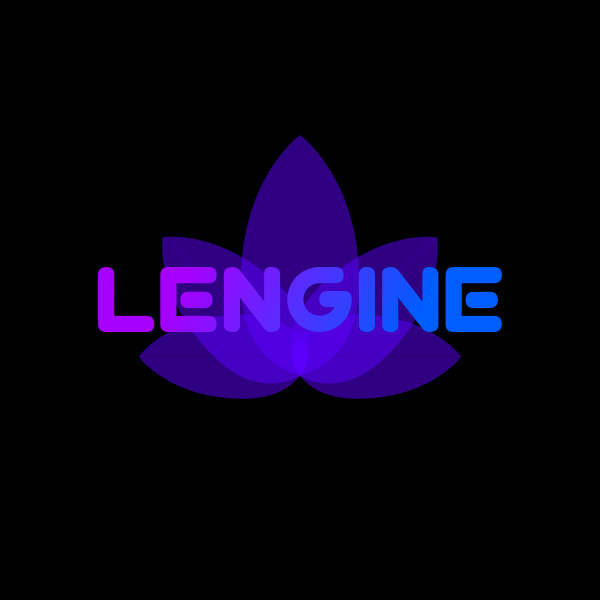
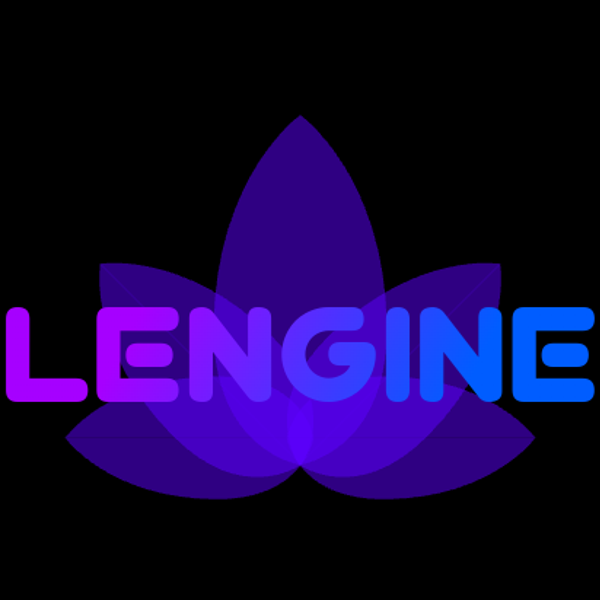
Add files via upload

Changed region(s): [[0.0, 0.18, 1.0, 0.84]]

diff --git a/Lotos Game/index.html b/Lotos Game/index.html
@@ -15,13 +15,14 @@
     <h1 id="preloaderText">загрузка..</h1>
 
     <div id="Background">
-        <div id="Main_Background"></div>
+        <div id="Main_Background" class="Lotos_Game"></div>
         <h1 id="Main_Text">
-           
         </h1>
-
         <div id="Body">
-            <h1 >
+            <h1 id="Under_Main_Text">
+                Lotos Game
+            </h1>
+            <h1>
                 Привет путник!
             </h1>
             <h2>
@@ -29,19 +30,33 @@
                 Наш проект был создан 4 сентября 2023 года. Мы занимаемся разработкой видеоигр 
                 на самом лёгком программировании: Python. На этом сайте вы можете посмотреть все
                 наши проекты, и поддержать нас донатом.<br><br>
-                
             </h2>
         </div>
     </div>
 
     <div id="Body"><br>
         <h1>Разработчики:</h1>
-        <center>
-            <h2>
-                пока ничего
+            <h2 style="text-align: left;">
+                <center><h1 style="color: blueviolet;">Слава (Slava_Tys)</h1></center>
+                Я - создатель LotosGame. В данной студии я работаю программистом, дизайнером и 3D модельером. Начал свою карьеру программиста с
+                 обычного 2D платформера и первого бота в Discord. Буду очень рад если вам понравятся мои проекты!
+                <br><br>
+                <center><h1 style="color: blueviolet;">Неизвестно (Deleted)</h1></center>
+                Здорова, я Deleted. Родом из РФ. Я работаю в Lotos Game. Моя работа заключается в
+                проработке лорной составляющей проектов и в придумывании различных режимов.
+                Ты мог видеть результат моей работы в игре Project "Infinity". Конкретно в этом проекте
+                я занимался описанием пушек, описанием карт, расстановкой сил в режимах,
+                балансом оружек игры, описаниями боссов. Также именно благодаря мне оружие в
+                игре имеют такое название.
+                Надеюсь, что данный аспект игры тебе понравился.
+                Если есть желание и возможность, то поддержи наши проекты донатом. Буду
+                благодарен!
+                <center><h1 style="color: blueviolet;">Стоян (stajan2)</h1></center>
+                Я являюсь создателем данного сайта и многих других проектов. Занимаюсь разработкой разных проектов 5 лет (Игр/Движка/Ботов/Сайтов). 
+                Желаю создать для игровой индустрии и её аудитории проект, который являлся бы социальной утопий в жестоком мире.
+
                 <br><br>
             </h2>
-        </center>
     </div>
 
     <div id="Body"><br>
@@ -59,10 +74,10 @@
         <div id="Projects">
 
             <div id="Project"><a href="LEngine.html" target="_blank">
-                <img id="Project_Icon" alt="LEngine: Engine icon" src="src/project icons/Lengine.png">
+                <img id="Project_Icon" alt="LEngine: Engine icon" src="src/project icons/Lengine2.png">
                 <h3 id="Project_Main">LEngine
                     <div id="Project_Text">
-                        LEngine— отличный движок в котором вы можете сделать свою игру на любом доступном языке программирования При этом имея даже самый слабый ПК.<div id="InDevelopingProject">В разработке</div>
+                        LEngine— отличный движок в котором вы можете сделать свою игру на любом доступном языке программирования При этом имея...<div id="InDevelopingProject">В разработке</div>
                     </div>
                 </h3>
             </a></div>
@@ -71,7 +86,7 @@
                 <img id="Project_Icon" alt="Infinity: Icon" src="src/project icons/infinity.png">
                 <h3 id="Project_Main">Infinity
                     <div id="Project_Text">
-                        Project "Infinity" - 3D шутер от первого лица, в которой вам предстоит воевать за одну из трех группировок. Действия игры происходят в... <div id="InDevelopingProject">В разработке</div>
+                        Project "Infinity" - 3D шутер от первого лица, в которой вам предстоит воевать за одну из трех группировок. Действия игры... <div id="InDevelopingProject">В разработке</div>
                     </div>
                 </h3>
             </a></div>
@@ -90,15 +105,7 @@
     </div>
 
 
-    <div id="Sot">
-        <h1>Контакты:</h1>
-        <center>
-            <a href="https://discord.com/invite/NHJBmkSaSa" target="_blank">
-                <img src="src/discord.png" alt="Discord: Lotos Game" id="SotIcon">
-            </a>
-        </center>
-        <br>
-    </div>
+    <div id="Sot"></div>
 
     <script src="script.js"></script>
     

diff --git a/Lotos Game/Infinity.html b/Lotos Game/Infinity.html
@@ -16,14 +16,21 @@
     <h1 id="preloaderText">загрузка..</h1>
 
     <div id="Background">
-        <div id="Main_Background"></div>
+        <div id="Main_Background" class="Infinity"></div>
         <h1 id="Main_Text">
-            Infinity
         </h1>
 
         <div id="Body">
+            <h1 id="Under_Main_Text">
+                Infinity
+            </h1>
             <h2>
-                LEngine— отличный движок в котором вы можете сделать свою игру на любом доступном языке программирования При этом имея даже самый слабый ПК.<br><br>
+                Project "Infinity" - 3D шутер от первого лица, в которой вам предстоит воевать за одну из трех группировок. 
+                Действия игры происходят в 2050 году в стране Лират. Все началось год назад, когда правительство Лирата начало 
+                препятствовать деятельности организации "Вечность". Были небольшие стычки между наемниками правительства и "Вечности".
+                Однако, стороны хотели предотвратить войну, но третья сторона конфликта(нанятая конкурирующей с "Вечностью"
+                организацией) не дала стабилизировать конфликт. Так и началась Лиратская гражданская война.
+            <br><br>
             </h2>
         </div>
     </div>
@@ -38,15 +45,8 @@
     </div>
 
 
-    <div id="Sot">
-        <h1>Контакты:</h1>
-        <center>
-            <a href="https://discord.com/invite/NHJBmkSaSa" target="_blank">
-                <img src="src/discord.png" alt="Discord: Lotos Game" id="SotIcon">
-            </a>
-        </center>
-        <br>
-    </div>
+    <div id="Sot"></div>
+
 
     <script src="script.js"></script>
     

diff --git a/Lotos Game/styles.css b/Lotos Game/styles.css
@@ -1,12 +1,19 @@
 
-
+.LEngine{
+    background-image: url("src/fon3.png");
+}
+.Infinity{
+    background-image: url("src/fon3.png");
+}
+.Lotos_Game{
+    background-image: url("src/fon3.png");
+}
 
 #Main_Background{
     margin: auto;
     margin-top: 1vw;
     width: 100%;
     border-radius: 0.5vw;
-    background-image: url("src/fon3.png");
 
     background-size: 100%;
     height: 40vw;
@@ -125,11 +132,8 @@ a{
 br{
     font-size: 2vw;
 }
-
-
 #Main_Text{
-    font-size: 3vw;
-    color: rgb(166, 0, 255);
+
 
     margin: auto;
     margin-top: 10vw;
@@ -137,14 +141,38 @@ br{
 
     width: 80vw;
     
+    
 
     align-content: center;
 }
 
+#Under_Main_Text{
+    font-size: 3vw;
+
+    color: rgb(166, 0, 255);
+    background-color: rgb(51, 51, 51);
+    border-radius: 1vw;
+    height: 7vw;
+    align-content: center;
+}
+
 @media (max-width: 100vh){
+    .LEngine{
+        background-image: url("src/project icons/Lengine.png");
+    }
+    .Infinity{
+        background-image: url("src/project icons/infinity.png");
+    }
+    .Lotos_Game{
+        background-image: url("src/project icons/Lotos_Game.png");
+    }
     #Main_Text{
         width: 96vw;
         height: 11vh;
+    }
+    #Under_Main_Text{
+        display: none;
+        margin: none;
     }
     h1{
         font-size: 3vh;
@@ -162,7 +190,6 @@ br{
     }
     #Body{
         width: 100%;
-        align-self: center;
     }
     #Projects{
         margin: auto;
@@ -207,9 +234,12 @@ br{
     #Main_Background{
         margin: 0;
         width: 100%;
-        background-size: 100vh;
-        height: 50vh;
-        margin-bottom: -50vh;
+        background-size: 75%;
+        background-repeat: no-repeat;
+        background-position: center;
+        background-position: top;
+        height: 90vw;
+        margin-bottom: -75%;
     }
 
     #Sot{

diff --git a/Lotos Game/LEngine.html b/Lotos Game/LEngine.html
@@ -16,12 +16,13 @@
     <h1 id="preloaderText">загрузка..</h1>
 
     <div id="Background">
-        <div id="Main_Background"></div>
-        <h1 id="Main_Text">
-            LEngine
-        </h1>
+        <div id="Main_Background" class="LEngine"></div>
+        <h1 id="Main_Text"></h1>
 
         <div id="Body">
+            <h1 id="Under_Main_Text">
+                LEngine
+            </h1>
             <h2>
                 LEngine— отличный движок в котором вы можете сделать свою игру на любом доступном языке программирования При этом имея даже самый слабый ПК.<br>
                 <div id="InDeveloping">В разработке</div>
@@ -39,16 +40,7 @@
         <br><br><br><br>
     </div>
 
-
-    <div id="Sot">
-        <h1>Контакты:</h1>
-        <center>
-            <a href="https://discord.com/invite/NHJBmkSaSa" target="_blank">
-                <img src="src/discord.png" alt="Discord: Lotos Game" id="SotIcon">
-            </a>
-        </center>
-        <br>
-    </div>
+    <div id="Sot"></div>
 
     <script src="script.js"></script>
     

diff --git a/Lotos Game/script.js b/Lotos Game/script.js
@@ -2,4 +2,13 @@ window.onload = function () {
     document.getElementById('preloaderBackground').style.display = 'none';
     document.getElementById('preloaderText').style.display = 'none';
     document.getElementById('preloader').style.display = 'none';
-}   
+
+    document.getElementById('Sot').innerHTML = 
+    `<h1>Контакты:</h1>
+        <center>
+            <a href="https://discord.com/invite/NHJBmkSaSa" target="_blank">
+                <h1 style="color: blueviolet;">Lotos Game</h1>
+            </a>
+        </center>
+    <br>`
+}
